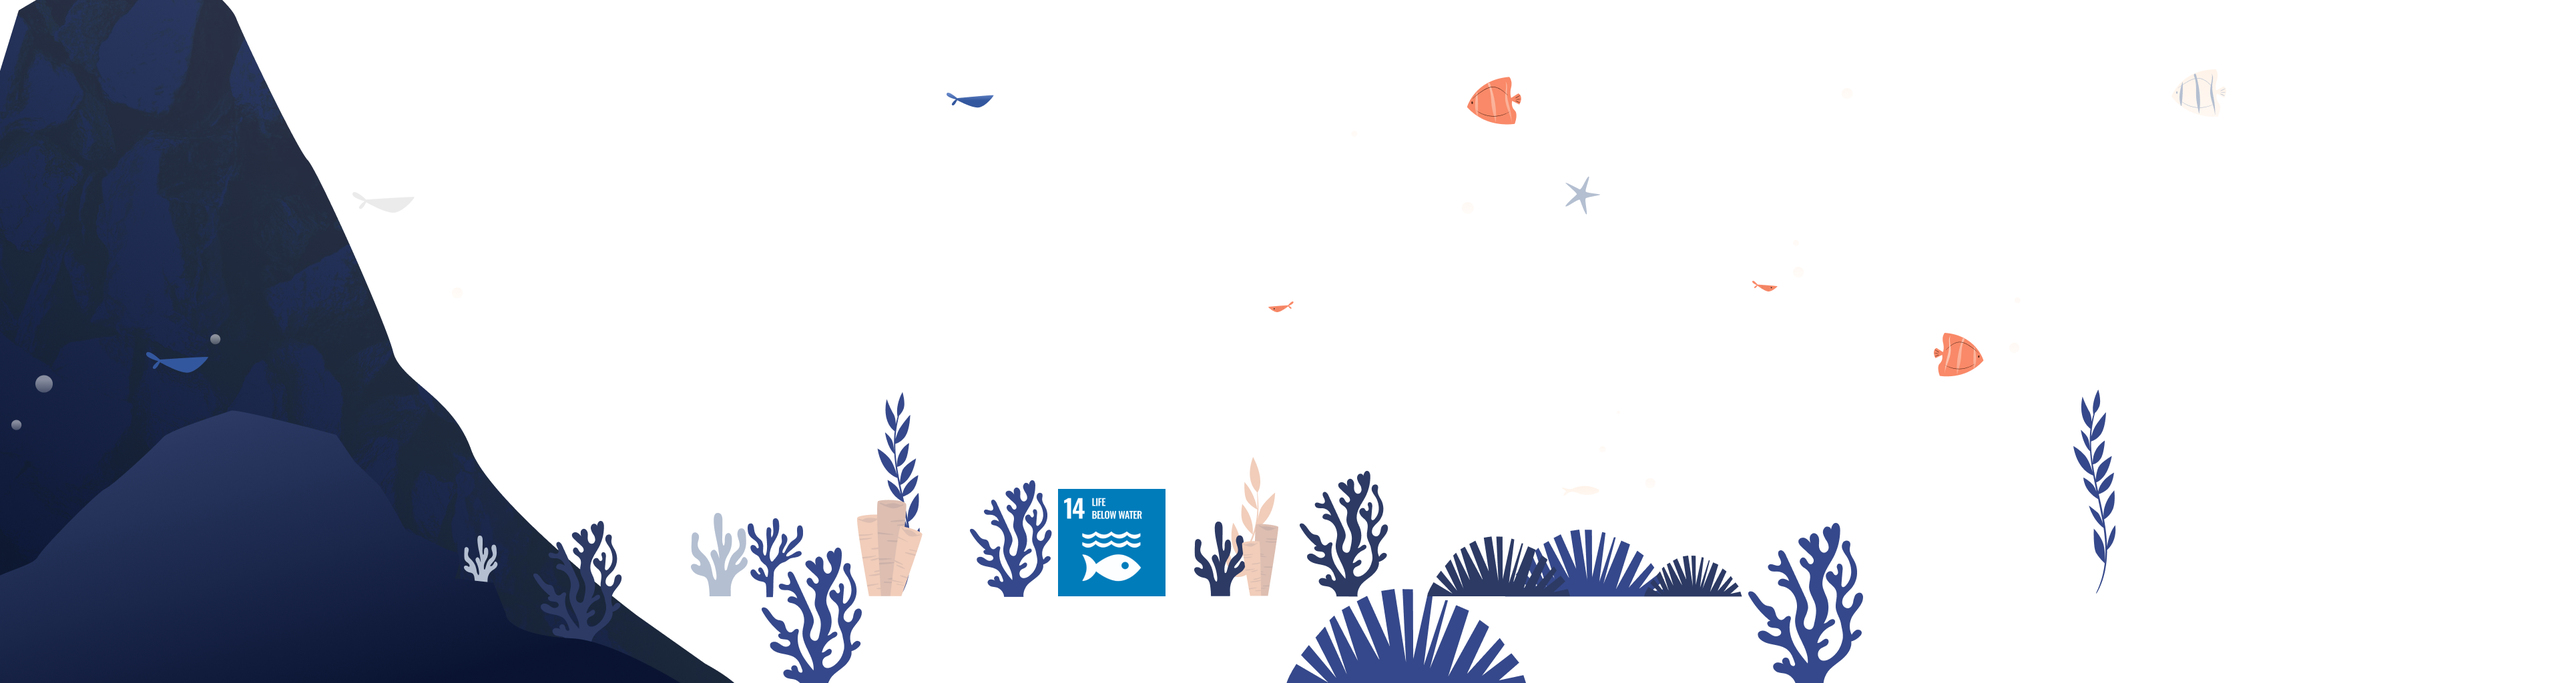
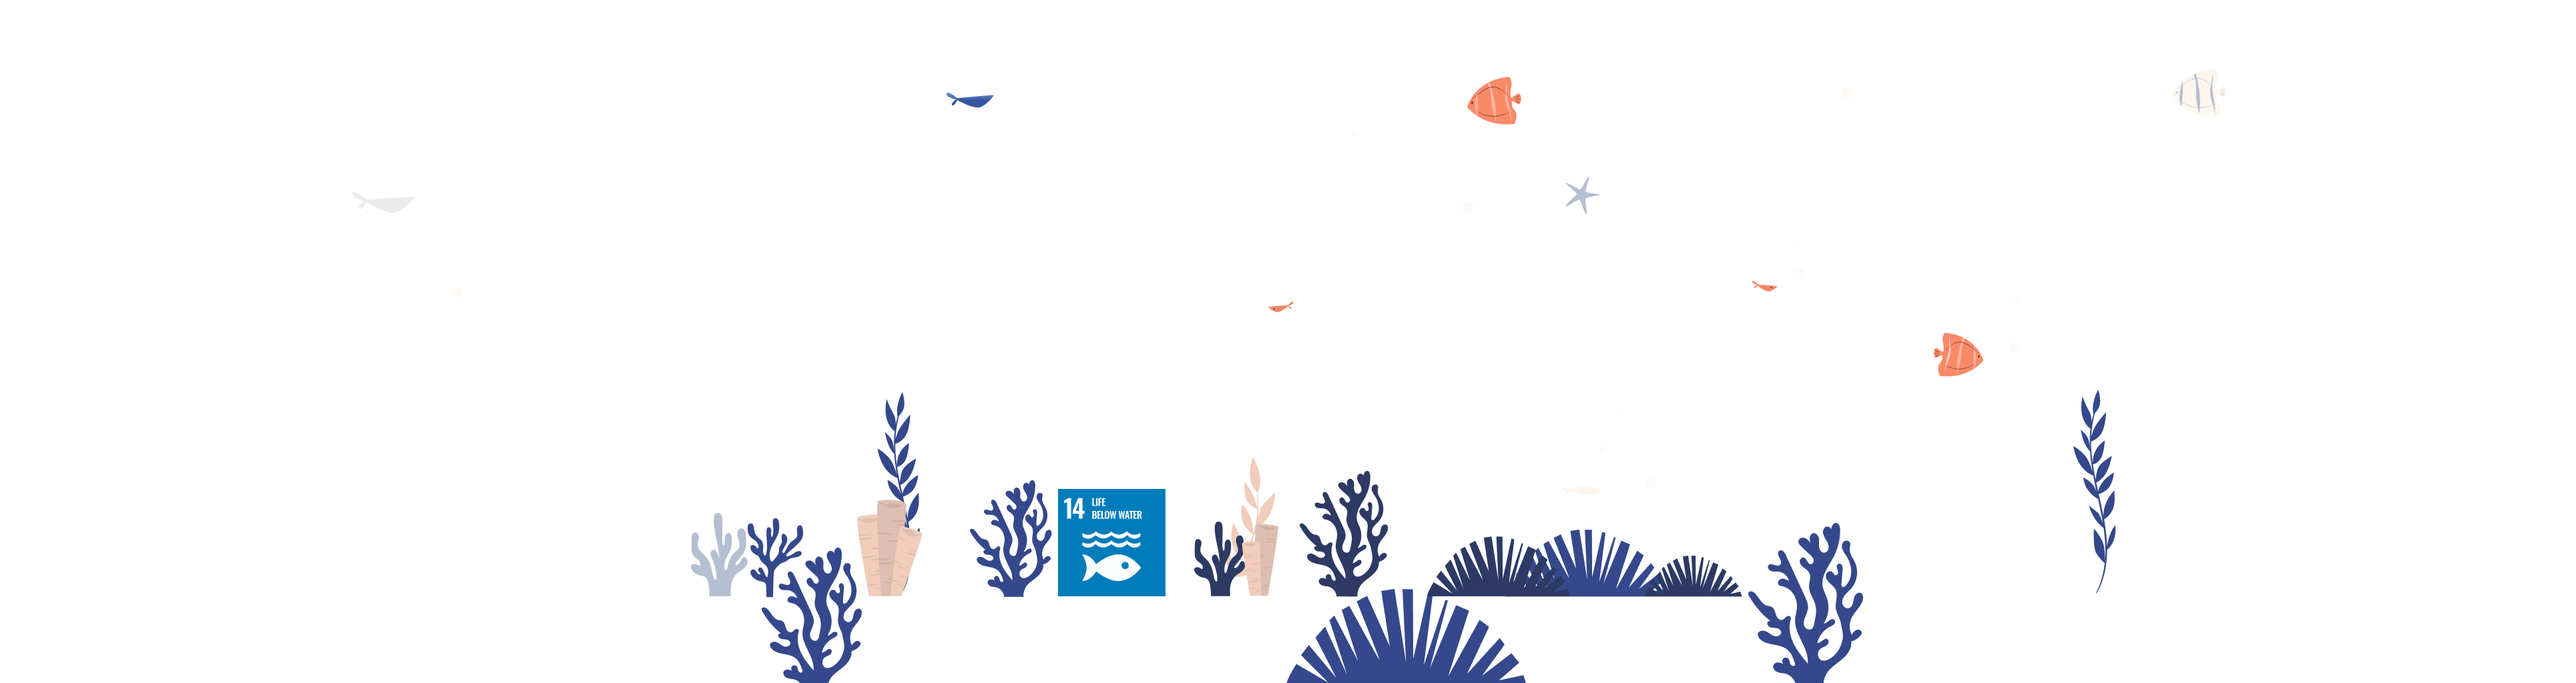
chapter9 imgs

Changed region(s): [[0.0, 0.0, 0.2799, 1.0]]

diff --git a/sass/framework/components/chapter/b--chapter8-a.scss b/sass/framework/components/chapter/b--chapter8-a.scss
@@ -79,7 +79,7 @@
       height: 100vh;
       &--right {
         left: auto;
-        right: -5.4%;
+        right: -28.3%;
       }
     }
   }
